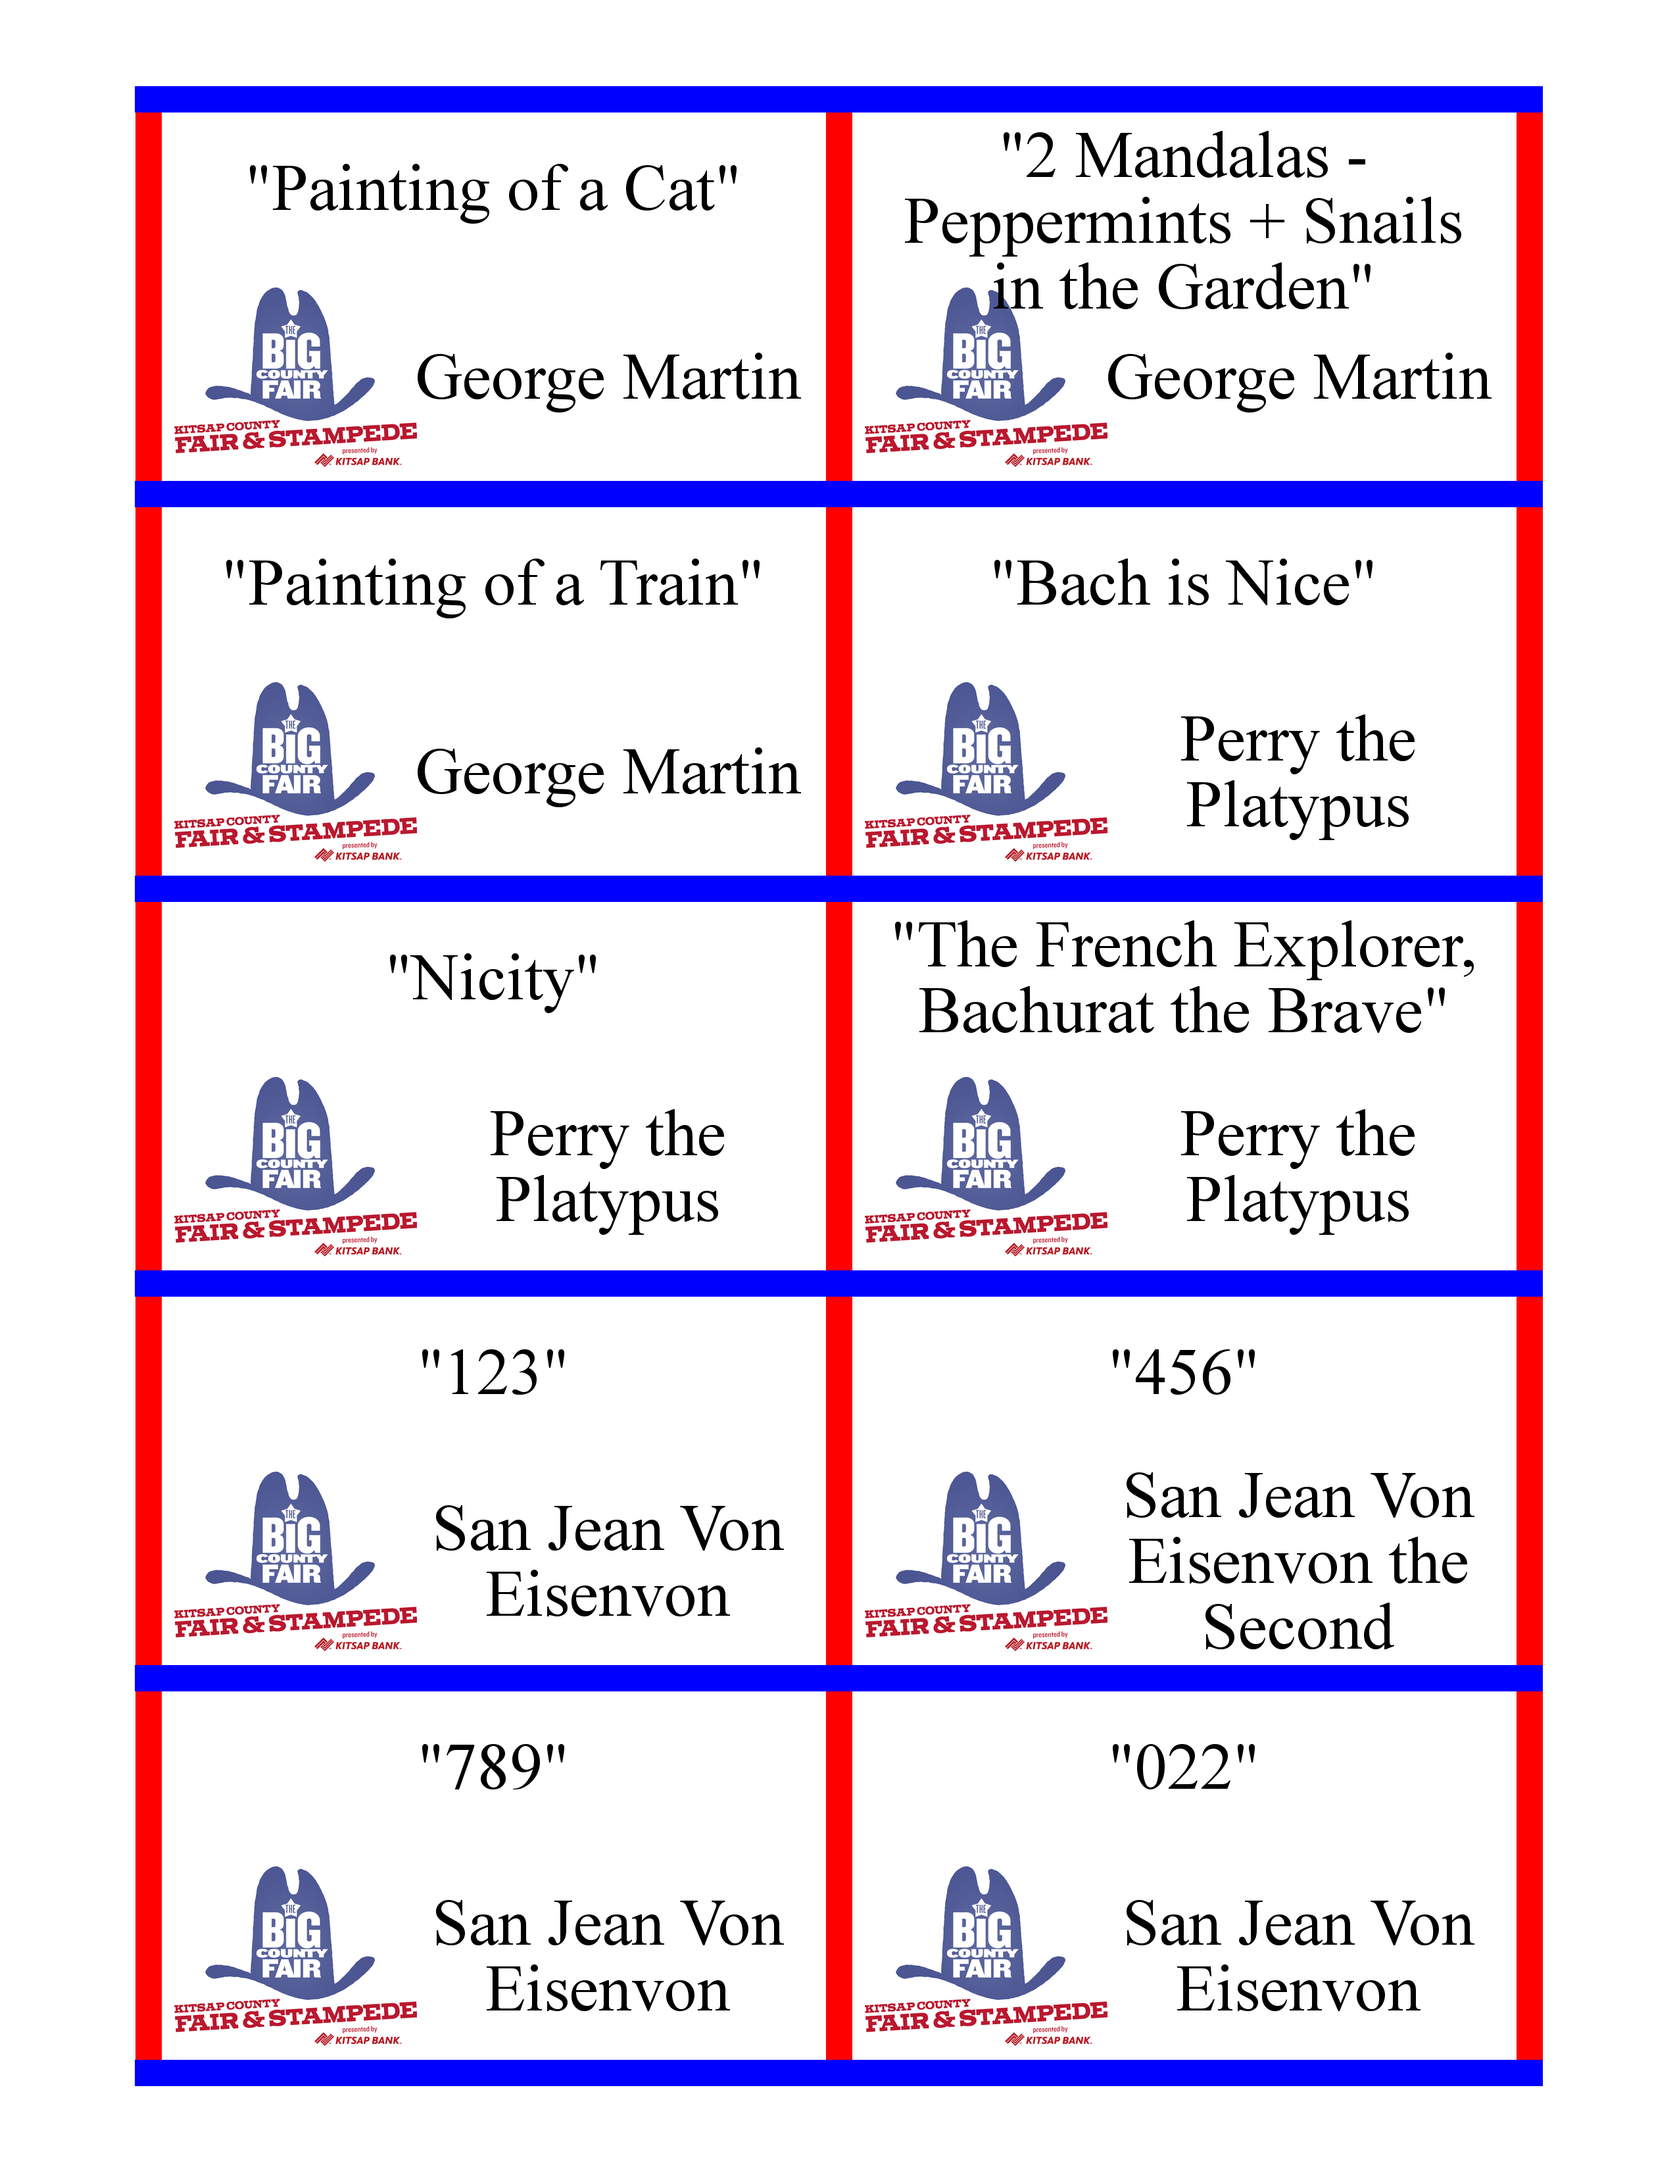
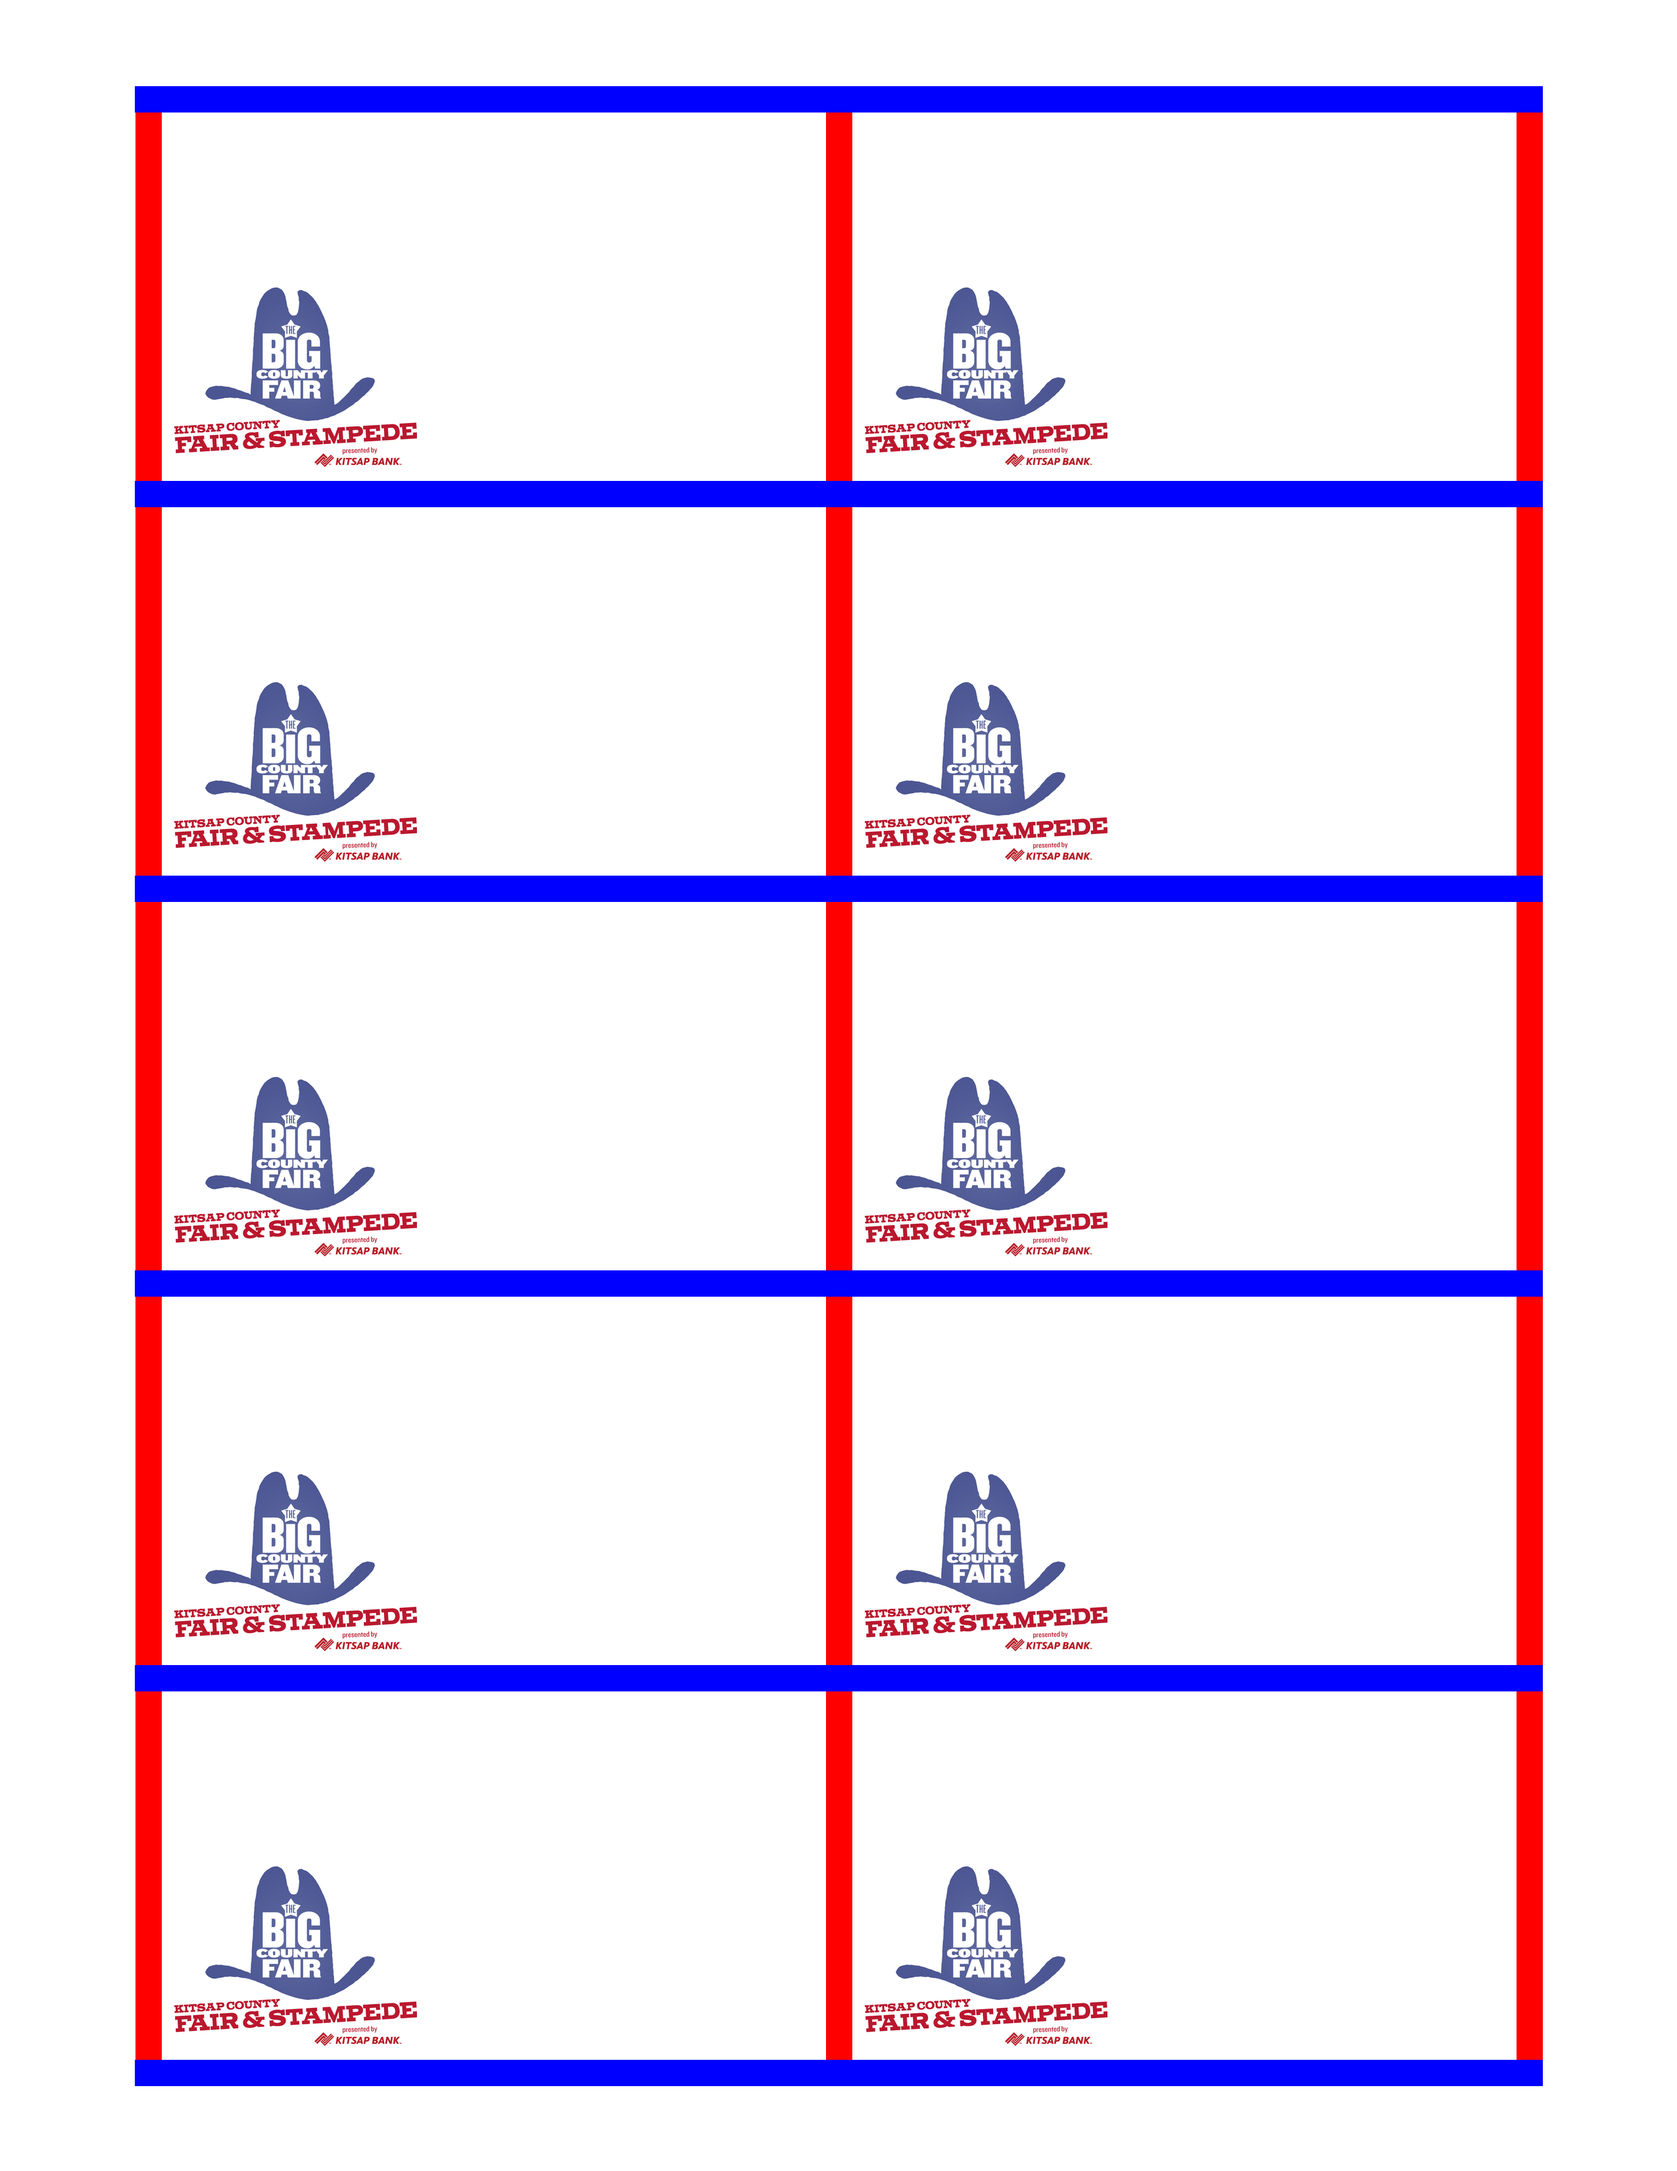
100% core features

diff --git a/label-generator.py b/label-generator.py
@@ -1,5 +1,6 @@
 from PIL import Image, ImageDraw, ImageFont
 import textwrap
+import csv
 
 ''' TODO:
 Add csv support / automated pdf production
@@ -20,7 +21,9 @@ TEXT_MARGIN = 30
 IMAGE_BACKGROUND = "white"
 logo = Image.open("fair_logo.jpg")
 logo = logo.resize((369, 273), Image.LANCZOS) #328, 243
-FONT_PATH = "..//resource//times.ttf"
+RESOURCE_PATH = "..//resource//"
+FONT_PATH = RESOURCE_PATH + "times.ttf"
+DATA_PATH = RESOURCE_PATH + "fair-data.csv"
 
 #Derived Settings
 IMAGE_SIZE = (int(PAPER_SIZE[0] * PIXELS_PER_INCH),
@@ -29,10 +32,10 @@ MARGIN_SIZE = 1 * PIXELS_PER_INCH
 TOP_MARGIN = int(TOP_MARGIN * PIXELS_PER_INCH)
 SIDE_MARGIN = int(SIDE_MARGIN * PIXELS_PER_INCH)
 
-X_MIN = SIDE_MARGIN
-X_MAX = IMAGE_SIZE[0] - SIDE_MARGIN
-Y_MIN = TOP_MARGIN
-Y_MAX = IMAGE_SIZE[1] - TOP_MARGIN
+X_MIN = SIDE_MARGIN + (LOGO_MARGIN * 3 // 4) # added logo margin to calibrate to my printer
+X_MAX = IMAGE_SIZE[0] - SIDE_MARGIN - (LOGO_MARGIN * 3 // 4)
+Y_MIN = TOP_MARGIN + LOGO_MARGIN
+Y_MAX = IMAGE_SIZE[1] - TOP_MARGIN - LOGO_MARGIN
 
 PIXELS_IN_ROW = ((Y_MAX - Y_MIN) // ROWS)
 CARD_SIZE = (((X_MAX - X_MIN) // 2), PIXELS_IN_ROW)
@@ -103,7 +106,8 @@ for coord in cards_coordinates:
 
 blank_image = image.copy()
 
-current_data = [ #[Name, Title, Name_Modifier, Title Modifier]
+''' Test Data - Depreciated
+current_data = [ #[Name, Title]
     ["George Martin", "Painting of a Cat"], 
     ["George Martin", "2 Mandalas - Peppermints + Snails in the Garden"],
     ["George Martin", "Painting of a Train"],
@@ -114,40 +118,53 @@ current_data = [ #[Name, Title, Name_Modifier, Title Modifier]
     ["San Jean Von Eisenvon the Second", "456"],
     ["San Jean Von Eisenvon", "789"],
     ["San Jean Von Eisenvon", "022"]]
+'''
 
-def text_format(text, width): #, font):
-    #text_size = draw.multiline_textsize(text, font=font, spacing=6)
+def read_data(data_file):
+    raw_data = []
+    with open(DATA_PATH, 'r') as f:
+        data_reader = csv.reader(f)
+        for row in data_reader:
+            raw_data.append(row)
 
-    centered_text = textwrap()
-    '''
-    if text_size >= text_box_size:
-        number_of_lines = 2
-    else:
-        number_of_lines = 1
-    '''
-    
-    #text_center(text, text_box_size, font, number_of_lines)
+    table_sep = raw_data.index([])
+    raw_data = [raw_data[:table_sep], raw_data[table_sep+1:]]
+    return raw_data
 
-def text_center(text, text_box_size, font, number_of_lines):
-    text_size = draw.multiline_textsize(text, font=font, spacing=6)
-    if text_size >= text_box_size:
-        pass
-    else:
-        pass
+def unpack_data(raw_data):
+    data = []
+    for table in raw_data:
+        current_table = []
+        for row in table:
+            author = row[0]
+            artwork = row[1:]
+            for art in artwork:
+                current_table.append([author, art])
+        data.append(current_table)
+    return data
 
-    formatted_text = text
-    
-    xy_adjustment = (0,0)
-
-    return formatted_text, xy_adjustment
-
+def generate_sheets(data):
+    sheets = []
+    for table in data:
+        len_table = len(table)
+        i = 0
+        while len_table >= 10:
+            sheets.append(table[i:i+10])
+            i += 10
+            len_table -= 10
+        if len_table > 0:
+            sheets.append(table[i:])
+            sheets[len(sheets)-1].extend([['','']] * (10 - len_table))
+    return sheets
 
 def write_text(data_list):
-    image = blank_image
     pad = 100
     for i, coord in enumerate(cards_coordinates):
         current_coord = (coord[0] + TITLE_TRANSLATION[0], coord[1] + TITLE_TRANSLATION[1])
-        text = '"' + data_list[i][1] + '"'
+        if data_list[i][1] != '':
+            text = '"' + data_list[i][1] + '"'
+        else:
+            text = data_list[i][1]
         text_wrapped = textwrap.wrap(text, width=22)
 
         delta_h = 0
@@ -159,14 +176,12 @@ def write_text(data_list):
                 delta_h += 50
             
             draw.text((current_coord[0] + ((title_textbox[2][0] - w) // 2), current_coord[1] + delta_h), text, fill="black", font=font8)
-            #draw.multiline_text((current_coord), '"' + data_list[i][1] + '"', fill="black",
-            #                    font=font10, spacing=6, align="center" )
             delta_h += pad
     
         
         current_coord = (coord[0] + NAME_TRANSLATION[0], coord[1] + NAME_TRANSLATION[1])
         text = data_list[i][0]
-        text_wrapped = textwrap.wrap(text, width=15)
+        text_wrapped = textwrap.wrap(text, width=13)
         
         delta_h = 0
         delta_h += (len(text_wrapped) - 3) * -50
@@ -175,20 +190,17 @@ def write_text(data_list):
             w, h = draw.textsize(text, font = font8)
 
             draw.text((current_coord[0] + ((name_textbox[2][0] - w) // 2), current_coord[1] + delta_h), text, fill="black", font=font8)
-            delta_h += pad       
-        '''
-        draw.multiline_text((current_coord), data_list[i][0], fill="black",
-                            font=font8, spacing=6, align="center" )'''
+            delta_h += pad
+    
+            
+        
 
+raw_data = read_data(DATA_PATH)
+data = unpack_data(raw_data)
+sheets = generate_sheets(data)
 
-#TO REMOVE, Locates name and title textboxes
-'''        
-draw.line(title_textbox[0:2],
-            fill="black", width=5)
-draw.line(name_textbox[0:2],
-            fill="black", width=5)
-'''
-
-write_text(current_data)
-image.save("Test.png")
+for i, sheet in enumerate(sheets):
+    image.paste(blank_image)
+    write_text(sheet)
+    image.save(".//Generated Sheets//Sheet_" + str(i+1) + ".png")
 
